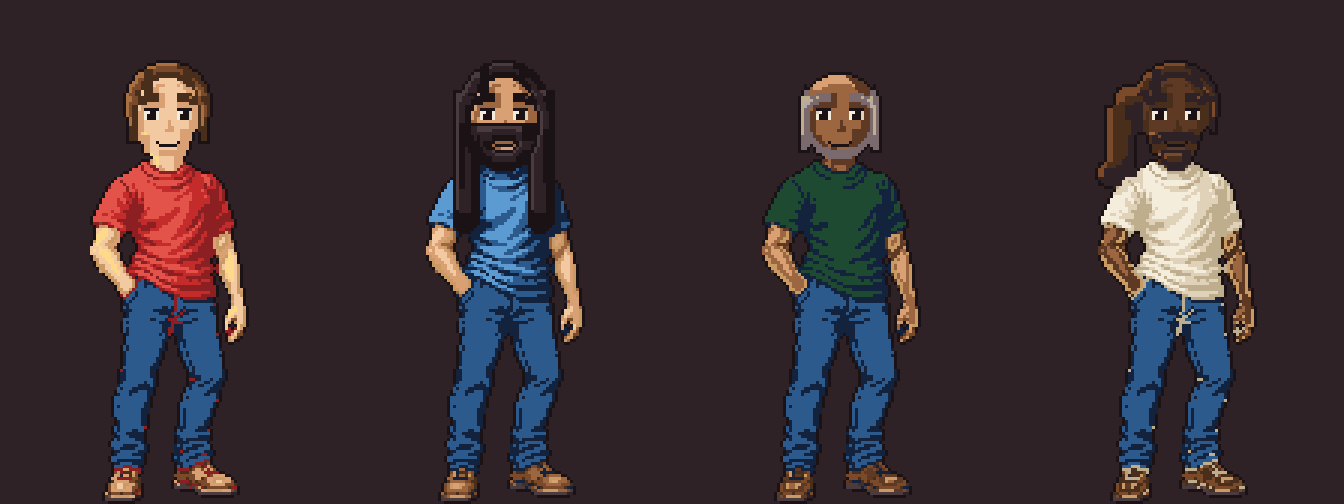
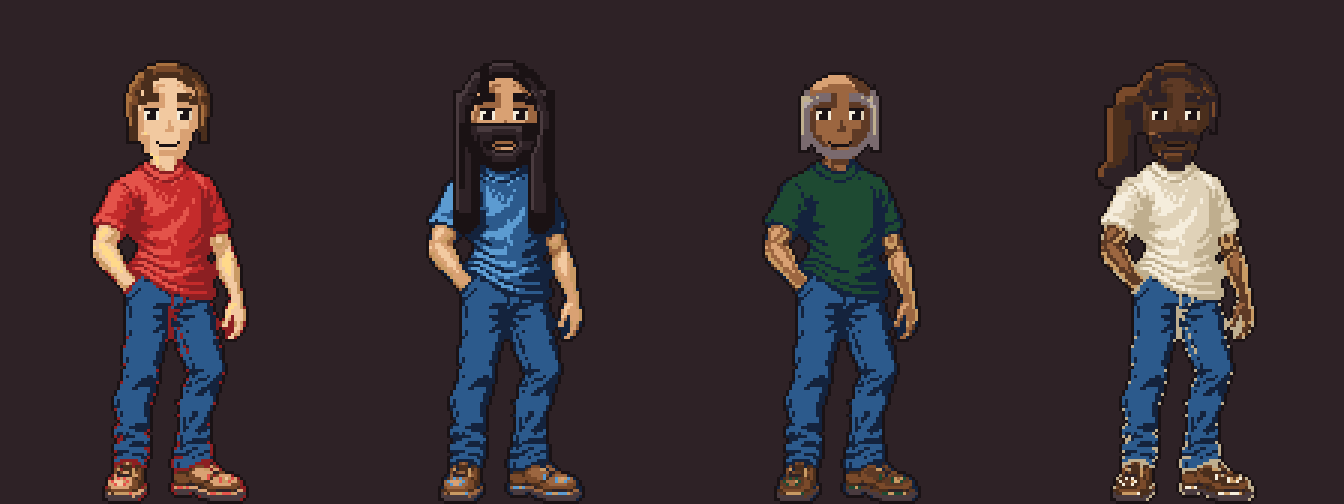
Register the T-shirt prototype, and leave the guard it conflicts with red
Round 3 cleared the outline (48 unoutlined pixels to zero) and the contact row,
and missed the shoulder band by six rows. --fit normalised that at 0.952x and six
rows, reported in full, and it passed. avatar_body_starter_04 is the first
painted build in the product; the other five tops still draw themselves and a
manager wearing one cannot tell.

Two instructions the generator could not follow, twice: it was asked for 672x1008
with hard alpha and delivered 1024x1536 with zero fully-opaque pixels, both
rounds. Neither mattered. The outline defect they were meant to fix was fixed by
thickening the stroke instead, at the same width and the same feathered alpha,
because snapping at source resolution and voting by majority absorbs both. Do not
ask for either again.

shading.test.ts is RED and deliberately so. The painted build has 55 pixels of
enclosed empty space - under the bent arm and beside the hanging hand - and both
are outlined negative space that is correct and is what makes the pose read. The
rule was written for a drawn figure whose gaps were always bugs and it caught two
of them, but a posed figure with an arm away from its body cannot have zero
enclosed negative space, so that rule and ruling R2 cannot both hold for a
painted build. Editing a guard that has caught two shipped defects, in the commit
that makes it inconvenient, is the move this repository has most reason to
distrust. The recommended narrowing is written down, not applied. The branch does
[…]

diff --git a/lib/character/art/masks/avatar_body_starter_04.ts b/lib/character/art/masks/avatar_body_starter_04.ts
@@ -1,0 +1,16 @@
+import { type EncodedMask } from '../../mask';
+
+/**
+ * GENERATED by `npm run art:mask`. **Do not edit.**
+ *
+ * The painted build for `avatar_body_starter_04`, as role indices into `MASK_KEYS`. Regenerate
+ * from the delivered PNG rather than touching a run: every entry here was checked
+ * by the validator, and a hand-edited one has not been.
+ */
+export const AVATAR_BODY_STARTER_04: EncodedMask = {
+  slug: 'avatar_body_starter_04',
+  width: 112,
+  height: 168,
+  rle:
+    '0.5984,1.2,0.9,1.2,0.97,1.2,3.1,1.1,0.9,1.4,0.94,1.2,5.1,3.2,1.2,0.6,1.2,4.1,1.3,0.92,1.2,4.1,5.1,4.1,3.2,1.2,0.5,1.1,3.2,1.1,5.1,1.3,0.88,1.2,3.4,5.2,3.3,1.5,3.2,4.1,6.1,4.2,3.1,1.3,0.84,1.2,3.7,5.2,3.7,4.2,6.1,4.4,3.2,1.3,0.80,1.2,3.8,4.1,3.2,5.2,3.3,4.2,6.2,3.1,4.1,5.1,4.2,3.3,4.2,1.1,0.78,1.2,4.1,3.9,4.3,3.1,4.1,5.4,3.1,4.7,3.2,4.2,1.2,0.76,1.2,3.2,4.1,5.1,3.8,4.7,3.1,4.9,3.1,4.3,1.1,0.75,1.2,3.5,5.1,3.2,4.1,3.5,4.15,5.1,4.1,3.1,4.3,1.1,0.74,1.2,3.4,4.1,3.1,4.1,3.1,4.2,3.4,4.1,3.1,4.6,3.1,4.7,5.1,4.1,5.1,4.2,1.1,0.74,1.1,3.6,4.1,6.1,4.1,3.1,4.1,3.1,4.1,3.3,4.2,3.1,4.12,6.1,4.1,5.1,4.2,1.2,0.72,1.2,3.4,4.3,5.1,4.2,5.1,4.2,3.3,4.1,3.1,4.1,3.1,4.2,3.1,4.8,6.1,4.1,5.2,4.1,5.1,1.1,0.72,1.1,3.6,4.3,6.1,5.2,4.2,3.5,4.1,3.1,4.1,3.2,4.5,3.1,4.2,5.4,4.1,5.1,1.2,0.70,1.2,3.4,4.5,5.5,3.6,4.2,3.1,4.6,3.1,4.2,5.1,6.2,4.2,5.1,4.1,1.1,0.70,1.1,4.1,3.4,4.3,5.1,4.1,1.1,6.1,5.1,6.1,4.1,3.9,4.9,5.1,6.1,1.1,4.1,5.1,4.2,1.1,0.69,1.2,3.5,4.3,5.1,4.2,1.1,5.1,6.1,3.2,4.1,3.5,4.6,3.1,4.4,5.1,1.2,5.1,6.1,4.2,1.2,0.68,1.1,4.1,3.4,4.5,6.1,1.2,6.2,4.3,3.4,4.6,3.2,4.4,5.1,1.2,5.1,6.1,4.2,5.1,1.1,0.67,1.1,4.1,3.2,4.7,5.1,6.1,1.3,5.1,4.2,3.3,4.8,3.2,4.4,5.1,1.1,6.2,4.4,1.2,0.65,1.2,3.5,4.5,5.1,6.1,1.3,4.13,3.2,4.5,5.1,1.2,6.1,4.4,5.1,1.1,0.65,1.1,3.2,1.1,3.5,4.1,5.2,6.2,1.2,5.1,4.10,3.1,4.1,3.3,4.5,5.1,1.2,5.1,4.3,5.2,1.2,0.64,1.1,6.1,1.5,3.2,4.2,5.1,6.2,1.1,6.1,5.3,4.8,3.4,4.6,5.1,1.2,5.4,4.2,5.1,1.1,0.65,1.2,8.3,13.1,1.2,4.1,3.1,4.1,6.1,1.2,6.2,5.4,4.5,3.4,4.7,5.1,1.2,6.2,4.4,1.2,0.65,1.1,13.1,8.1,7.2,8.1,13.1,9.1,1.1,4.1,5.2,1.1,6.2,5.3,4.5,3.5,4.7,5.2,1.2,5.1,4.4,1.2,0.66,1.1,8.1,7.3,8.2,13.1,9.1,1.1,5.1,1.2,6.2,5.1,4.3,3.9,4.7,5.2,1.2,5.1,4.1,1.5,0.65,1.2,8.1,7.2,8.2,13.2,9.1,1.4,6.3,5.1,4.1,3.9,4.7,5.2,4.1,1.4,9.1,13.2,9.1,1.1,0.65,1.2,8.1,7.1,8.2,13.2,9.2,1.2,0.1,1.2,5.4,4.1,3.1,4.2,3.3,4.1,3.1,4.6,5.2,4.1,5.1,1.2,9.1,13.1,8.2,13.1,9.1,1.2,0.64,1.1,8.4,13.2,9.2,1.2,0.3,1.1,6.1,4.2,5.3,4.6,3.2,4.4,5.2,4.2,5.1,1.2,9.1,13.1,8.2,13.1,9.2,1.1,0.64,1.1,8.2,7.2,8.2,9.2,1.1,0.5,1.1,5.1,4.3,5.2,4.6,3.1,4.7,5.2,1.2,9.1,13.4,9.2,1.1,0.64,1.1,7.1,8.1,7.3,8.2,13.1,1.1,0.5,1.2,5.1,4.1,3.2,4.5,3.1,4.8,5.2,6.1,1.3,9.1,13.2,9.1,13.1,8.1,1.2,0.63,1.1,8.3,7.3,8.2,13.1,1.1,0.4,1.1,4.1,6.2,4.1,3.7,4.6,5.3,6.2,5.1,1.2,9.4,8.2,1.2,0.63,1.1,13.2,8.1,7.4,8.1,13.1,1.1,0.3,1.2,3.3,5.2,3.6,4.5,5.3,6.2,5.2,1.2,14.1,9.2,13.1,7.2,8.1,1.1,0.63,1.1,9.1,13.1,8.2,7.3,8.2,13.1,1.1,0.2,1.1,4.2,3.4,5.2,4.9,5.3,4.2,5.2,1.1,0.1,1.1,9.1,13.1,8.1,7.2,8.1,1.2,0.63,1.1,13.2,8.2,7.3,8.1,13.1,1.1,0.1,1.2,5.4,4.1,3.3,4.13,5.2,1.2,0.1,1.1,13.1,8.1,7.3,13.2,1.1,0.63,1.2,13.2,8.2,7.3,8.1,1.3,4.2,3.3,5.2,4.1,3.5,4.1,3.2,4.4,5.2,6.3,1.3,13.1,8.1,7.3,8.1,13.1,1.1,0.64,1.1,9.1,13.2,8.1,7.3,8.1,13.1,1.2,5.4,3.3,5.2,4.2,3.5,4.2,5.3,6.1,4.1,5.3,1.2,13.1,8.1,7.3,8.1,13.1,1.2,0.64,1.1,9.1,13.2,8.2,7.1,8.2,1.2,4.1,3.3,5.1,4.1,3.3,5.3,4.6,3.2,4.4,5.2,1.2,13.1,8.2,7.2,8.1,13.2,1.1,0.65,1.2,13.1,8.3,7.1,8.1,13.1,1.4,3.1,2.1,3.1,5.1,4.1,3.3,5.4,4.2,3.2,4.3,5.3,6.1,1.3,13.1,8.1,7.2,8.1,13.2,1.1,0.66,1.2,13.2,8.4,13.1,1.4,4.1,3.2,5.1,4.2,3.7,4.2,5.5,6.1,1.4,13.1,8.2,7.1,8.1,13.2,1.1,0.67,1.2,13.1,8.5,13.1,1.2,11.1,1.2,3.3,4.3,3.2,4.3,5.5,6.4,1.3,9.1,13.1,8.3,13.2,1.1,0.68,1.2,13.1,8.5,1.1,10.1,11.1,12.2,1.1,4.1,3.2,5.2,4.6,5.2,6.3,5.4,1.1,0.1,1.1,13.1,8.3,13.2,1.1,0.69,1.1,9.1,13.1,8.3,1.1,10.2,11.4,1.2,4.1,3.2,5.3,4.9,5.2,1.2,0.1,1.2,13.1,8.3,13.1,1.1,0.70,1.1,9.1,13.2,1.1,10.2,11.1,10.3,11.2,1.3,3.4,5.10,6.2,1.1,0.2,1.1,13.1,8.3,13.1,1.1,0.71,1.1,9.1,1.2,10.1,11.1,12.1,10.3,11.3,12.1,1.3,4.1,3.1,4.1,3.1,4.2,5.1,6.6,5.1,1.2,0.2,1.1,13.1,8.2,13.1,1.2,0.70,1.3,10.1,11.1,12.1,10.3,11.6,12.1,1.4,4.9,5.2,1.2,0.2,1.1,13.1,8.2,13.2,1.1,0.71,1.1,11.2,12.1,10.8,11.3,12.1,1.1,12.2,1.4,5.6,6.1,1.2,0.2,1.2,8.3,13.1,1.1,0.71,1.1,12.2,11.6,10.4,11.3,1.1,10.1,11.2,1.1,12.1,1.9,0.4,1.1,8.3,13.1,1.1,0.71,1.1,12.1,11.6,10.2,11.6,1.1,10.1,11.2,1.1,11.3,12.5,1.1,0.4,1.2,8.3,13.1,1.1,0.71,1.1,12.1,11.5,10.2,11.2,12.5,1.1,11.1,12.1,1.1,12.5,11.3,12.1,1.2,0.3,1.1,8.1,7.2,8.1,13.1,1.1,0.71,1.1,11.1,12.1,11.1,10.4,11.2,12.5,1.1,11.1,12.6,11.2,10.1,11.2,12.2,1.1,0.2,1.2,7.2,8.2,13.1,1.2,0.70,1.1,11.1,12.1,11.3,10.4,11.3,12.2,1.4,12.1,11.1,10.4,11.2,12.3,1.1,0.2,1.1,8.1,7.1,8.4,13.1,1.1,0.70,1.1,11.1,12.1,10.4,11.2,10.2,11.2,12.2,1.2,12.2,11.9,12.2,1.2,0.1,1.1,8.1,7.1,8.4,13.1,1.1,0.70,1.1,11.1,12.1,11.1,10.2,11.4,12.5,1.3,12.6,11.1,10.2,11.2,12.2,1.1,0.1,1.1,7.1,8.1,1.1,8.3,13.1,1.1,0.70,1.1,11.4,10.3,11.3,12.4,1.1,12.1,1.1,11.2,12.2,11.2,10.3,11.2,12.2,1.3,8.1,9.1,1.1,8.3,13.1,1.1,0.70,1.1,11.1,10.1,11.3,10.3,11.4,12.2,1.1,12.3,11.1,10.2,11.3,10.2,11.2,12.2,1.2,13.1,8.1,1.2,13.1,8.1,13.1,1.2,0.70,1.1,11.2,10.7,11.2,12.3,1.1,12.4,11.1,10.3,11.1,10.2,11.2,12.2,1.2,8.2,1.2,13.1,8.1,9.1,1.2,0.70,1.1,11.3,10.6,11.1,12.4,1.2,11.1,1.1,11.3,10.6,11.1,12.2,1.6,8.2,9.1,1.1,0.71,1.1,11.1,12.1,11.1,10.5,11.1,12.2,11.2,12.1,1.2,12.1,11.3,12.1,11.1,10.5,11.2,12.1,1.1,0.1,1.4,8.1,9.1,1.2,0.71,1.1,11.1,12.1,11.1,10.4,11.5,12.2,1.2,12.1,11.1,1.1,11.4,10.4,11.2,12.1,1.1,0.1,1.3,8.1,13.1,9.1,1.1,0.72,1.2,11.1,10.5,11.5,12.2,1.2,12.1,11.1,1.1,11.1,10.1,11.3,10.3,11.3,1.4,8.2,1.2,0.73,1.1,10.1,11.1,10.4,11.2,10.1,11.3,12.1,1.4,11.2,12.1,10.3,11.2,10.1,11.3,12.2,1.1,0.1,1.4,0.74,1.1,10.1,11.1,10.7,11.2,12.2,1.1,0.2,1.1,12.1,11.1,12.1,11.1,10.5,11.3,12.2,1.1,0.78,1.2,11.1,10.7,11.3,12.2,1.1,0.2,1.1,12.1,11.1,1.1,12.1,11.1,10.5,11.3,12.1,1.2,0.77,1.1,10.1,11.1,10.6,11.4,12.2,1.1,0.2,1.2,11.2,1.1,11.2,10.5,11.2,12.2,1.1,0.77,1.1,10.1,11.2,10.4,11.4,12.2,1.1,0.4,1.1,11.2,1.1,11.3,10.4,11.3,12.1,1.1,0.77,1.1,11.3,10.4,11.4,12.2,1.1,0.4,1.2,11.1,10.1,11.5,10.3,11.2,12.1,1.1,0.77,1.1,11.1,12.1,11.2,10.4,11.3,12.2,1.1,0.5,1.1,11.2,12.1,11.5,10.2,11.2,12.1,1.1,0.77,1.1,11.1,12.1,11.3,10.3,11.2,12.3,1.1,0.5,1.1,12.1,11.1,10.4,11.3,10.2,11.2,1.1,0.77,1.2,11.5,10.3,11.1,12.2,1.1,0.7,1.1,11.1,10.1,12.1,10.4,11.1,10.2,11.2,12.1,1.1,0.77,1.1,11.6,10.2,11.2,12.1,1.1,0.7,1.1,12.1,11.1,12.1,11.3,10.4,11.2,12.1,1.1,0.76,1.1,10.1,11.1,10.2,11.3,10.2,11.2,1.2,0.7,1.2,12.5,10.2,11.4,12.1,1.1,0.76,1.1,11.5,10.3,11.3,12.1,1.1,0.8,1.1,12.3,10.2,11.5,12.1,1.2,0.76,1.1,11.1,12.1,11.1,10.4,11.1,12.2,11.1,12.1,1.1,0.8,1.1,11.1,12.1,10.2,11.2,12.1,11.2,12.2,1.1,0.77,1.1,11.2,10.2,11.2,12.6,1.1,0.7,1.2,11.3,12.3,11.2,12.3,1.1,0.76,1.2,11.1,10.2,11.2,12.6,1.2,0.7,1.1,11.1,12.1,11.1,12.1,11.4,12.3,1.2,0.76,1.1,11.2,10.1,11.2,12.7,1.1,0.7,1.2,12.2,11.1,10.2,11.2,12.4,1.1,0.77,1.1,11.2,10.1,11.1,12.2,11.4,12.2,1.1,0.7,1.1,11.3,10.2,11.1,12.6,1.1,0.76,1.1,10.1,11.1,10.1,11.8,12.2,1.1,0.7,1.1,11.1,12.1,10.2,11.1,12.3,11.1,12.3,1.1,0.76,1.1,10.1,11.1,10.1,11.7,12.2,1.2,0.7,1.1,11.1,10.2,11.1,12.3,11.2,12.2,1.1,0.76,1.1,10.1,11.1,10.2,11.1,10.2,11.4,12.2,1.1,0.8,1.1,11.1,10.1,11.8,12.1,1.1,0.76,1.1,10.1,12.1,10.5,11.4,12.2,1.1,0.6,1.2,11.2,10.1,11.8,12.1,1.1,0.76,1.1,11.1,12.1,11.1,10.4,11.3,12.2,1.2,0.6,1.2,11.5,10.1,11.5,1.2,0.76,1.1,12.2,11.2,10.3,11.3,12.2,1.1,0.8,1.1,11.2,10.1,11.1,10.1,11.5,12.1,1.1,0.77,1.2,11.4,10.2,11.3,12.2,1.1,0.8,1.1,11.10,12.1,1.1,0.78,1.1,11.1,12.1,11.3,10.2,11.2,12.2,1.1,0.8,1.1,11.4,12.2,11.3,12.1,1.1,0.79,1.1,11.1,12.1,11.4,10.2,11.1,12.2,1.1,0.7,1.2,11.4,12.2,11.3,12.1,1.1,0.79,1.2,11.6,10.1,11.2,12.1,1.1,0.8,1.1,11.1,12.1,11.1,12.2,11.3,12.2,1.1,0.80,1.1,11.3,10.3,11.3,12.1,1.1,0.8,1.1,11.1,12.1,11.1,12.1,11.4,12.2,1.1,0.79,1.2,12.1,10.2,11.2,12.5,1.1,0.8,1.1,11.1,12.1,11.3,10.1,11.1,12.2,1.2,0.78,1.2,10.3,11.1,12.7,1.1,0.8,1.1,11.1,12.2,11.1,10.1,11.1,12.4,1.1,0.78,1.1,11.2,10.1,11.1,10.3,12.4,1.2,0.8,1.1,11.1,12.1,11.1,10.1,11.1,12.4,11.1,1.1,0.78,1.1,11.1,12.2,11.1,12.1,11.1,10.3,11.1,1.2,0.8,1.2,11.1,10.5,12.1,11.3,1.1,0.78,1.2,12.1,1.1,12.4,10.3,11.1,1.2,0.7,1.1,11.1,12.1,10.2,11.6,12.1,1.1,0.79,1.3,12.1,10.3,11.5,1.1,0.7,1.1,11.1,12.1,11.3,12.6,1.1,0.79,1.2,10.3,11.1,12.4,11.1,12.1,1.1,0.7,1.2,12.1,11.1,12.7,1.2,0.78,1.1,11.1,10.4,12.7,1.1,0.7,1.2,12.2,11.8,1.2,0.77,1.1,11.6,10.3,11.1,1.3,0.6,1.2,11.1,12.1,11.3,12.2,10.2,11.2,1.2,0.77,1.2,12.4,10.1,11.5,1.2,0.6,1.1,11.4,12.2,10.2,11.2,12.2,1.2,0.78,1.1,12.2,10.2,11.1,12.4,11.1,12.1,1.1,0.6,1.1,12.5,10.2,11.1,12.2,11.2,1.2,0.77,1.2,11.1,10.5,11.2,12.2,1.2,0.6,1.4,10.2,11.1,12.1,11.1,10.2,11.2,12.1,1.1,0.77,1.1,11.1,10.1,1.6,11.2,1.2,0.6,1.2,11.2,10.2,11.2,10.3,1.5,0.77,1.4,14.1,9.1,14.1,1.3,11.1,12.1,1.1,0.6,1.2,11.1,12.1,11.3,10.1,11.1,1.5,17.1,1.2,0.76,1.2,14.1,17.1,15.3,1.1,15.2,1.3,0.6,1.2,11.1,12.1,11.3,1.2,14.3,1.2,9.1,14.1,1.2,0.75,1.1,14.1,13.1,1.1,15.3,13.1,15.1,14.1,15.1,1.1,0.8,1.6,15.1,14.1,9.3,13.2,1.1,9.2,1.2,0.74,1.1,14.1,17.1,14.1,9.2,15.1,13.1,14.2,15.1,1.1,0.8,1.2,15.4,14.1,9.7,17.2,14.2,1.3,0.70,1.2,9.1,17.4,15.1,13.1,9.1,14.1,15.1,1.1,0.8,1.1,14.4,15.1,14.2,9.4,3.1,14.1,1.1,14.1,9.4,1.3,0.67,1.2,15.1,9.1,3.1,9.1,3.1,9.2,14.1,15.1,14.1,15.1,1.1,0.8,1.1,14.9,9.2,3.1,15.1,9.2,3.1,13.1,8.1,13.1,3.1,9.1,1.2,0.66,1.1,9.1,3.1,8.3,13.1,3.1,9.1,14.2,15.2,1.1,0.8,1.1,15.1,14.4,15.1,14.4,15.2,9.3,3.1,13.2,3.1,9.2,14.1,1.2,0.65,1.1,9.2,3.1,8.2,3.1,9.2,14.2,15.2,1.2,0.6,1.2,15.4,17.3,15.3,14.3,9.6,14.3,1.2,0.64,1.2,14.1,9.6,14.3,15.1,1.1,14.1,1.1,0.6,1.2,9.1,3.2,13.1,3.1,9.3,17.1,15.2,14.10,15.1,1.3,0.63,1.1,15.2,14.7,15.2,9.2,16.1,1.1,0.6,1.2,16.8,9.3,15.3,17.5,15.1,17.1,9.2,1.2,0.63,1.1,16.1,9.1,15.1,13.5,3.1,9.3,16.1,1.2,0.7,1.2,16.4,1.2,16.4,9.1,3.2,13.2,3.3,13.1,9.1,16.3,1.1,0.63,1.1,16.9,9.1,16.2,1.2,0.9,1.6,0.1,1.2,16.14,1.2,0.63,1.2,16.10,1.2,0.18,1.3,17.1,16.10,1.2,0.66,1.11,0.22,1.12,0.31',
+};

diff --git a/lib/character/art/masks/index.ts b/lib/character/art/masks/index.ts
@@ -1,5 +1,7 @@
 import { type EncodedMask } from '../../mask';
 
+import { AVATAR_BODY_STARTER_04 } from './avatar_body_starter_04';
+
 /**
  * Painted build masks, by the slug they take over.
  *
@@ -29,7 +31,20 @@ import { type EncodedMask } from '../../mask';
  * one side of that and not the other, and the preview would quietly stop being
  * the truth.
  */
-export const BUILD_MASKS: Readonly<Record<string, EncodedMask>> = Object.freeze({});
+export const BUILD_MASKS: Readonly<Record<string, EncodedMask>> = Object.freeze({
+  /**
+   * The T-shirt, round 3, 2026-08-11. **The prototype, and the only painted build.**
+   *
+   * Passed with `--fit` — rescaled `0.952×` and moved 6 rows down, a normalisation
+   * of placement only, reported in full at ingest. Unfitted it misses the shoulder
+   * band by six rows and fails nothing else.
+   *
+   * The five other tops are still drawn, and a manager wearing one cannot tell any
+   * of this happened. Deleting this line reverts the T-shirt to the drawn sprite
+   * with nothing else to undo.
+   */
+  [AVATAR_BODY_STARTER_04.slug]: AVATAR_BODY_STARTER_04,
+});
 
 export function buildMask(slug: string): EncodedMask | null {
   return BUILD_MASKS[slug] ?? null;

diff --git a/docs/evidence/manager-build-prototype/README.md b/docs/evidence/manager-build-prototype/README.md
@@ -1,22 +1,34 @@
-# Round 2 evidence — **the art in these pictures is NOT registered**
+# The T-shirt prototype — round 3, registered 2026-08-11
 
-Every image here was produced from `art/incoming/16EEB307-…png` by writing a
-**temporary** mask module, rendering, and reverting it. `BUILD_MASKS` is still
-empty on this branch and every manager in the product still renders the drawn
-sprite. Nothing here shipped.
+**`avatar_body_starter_04` is the first painted build in the product.** The other
+five tops still draw themselves and a manager wearing one cannot tell.
 
-The mask behind them was produced with **`--fit`**, which normalised placement
-only — rescaled `0.892×` and moved down 18 rows. Without it the delivery fails
-three registration checks; with it, one.
+It passed with **`--fit`**: rescaled `0.952×` and moved 6 rows down, a
+normalisation of placement only, reported in full at ingest. Unfitted it misses
+the shoulder band by six rows and fails nothing else.
 
 | File | What it shows |
 |---|---|
-| `diag-mask.png` | the delivered art snapped to the seventeen role keys, unfitted, with the required band drawn over it |
-| `prototype-preview.png` | four managers from **one** file — four skin tones, four shirt colours, all resolved at render time |
-| `room-390.png` · `room-375.png` · `room-360.png` | the figure in the real storeroom at each phone width |
-| `room-closeup.png` | the same scene at device-pixel scale, for judging the head-to-body join |
+| `drawn-vs-painted.png` | the same manager, drawn hoodie against painted T-shirt |
+| `prototype-preview.png` | four managers from **one** file — four skin tones, four shirt colours, resolved at render time |
+| `room-390.png` · `room-375.png` · `room-360.png` | the storeroom at each phone width |
+| `room-closeup.png` | device-pixel scale, for the head-to-body join |
+| `avatar_body_starter_04-mask.png` | what `art:mask` wrote as its own preview |
+| `diag-mask.png` | **round 2**, kept for the record — the delivery that missed by 18 rows |
 
-**The open defect these pictures make obvious** is the head: it is still the
-*drawn* plate, because painting it is not authorised. Against a painted body it
-is the weakest thing in the frame, and that is the decision the prototype exists
-to surface.
+## Two things these pictures make obvious
+
+**The head is now the weakest thing in the frame.** It is still the *drawn* plate,
+because painting it is not authorised. Against a painted body it is flat, and it
+is what a viewer's eye goes to.
+
+**`lib/character/shading.test.ts` is red**, and deliberately left that way. The
+composite has 55 pixels of enclosed empty space: the gap under the bent arm and
+the gap beside the hanging hand. **Both are correct** — they are outlined negative
+space, and they are what makes the pose read as a pose. The rule they trip was
+written for a *drawn* figure, where every enclosed gap was a bug and it caught two
+real ones. It is in direct conflict with commissioner ruling R2, which grants a
+build its own pose: an asymmetric figure with an arm away from the body cannot
+have zero enclosed negative space.
+
+That is a ruling to make, not a test to quietly edit. `docs/MANAGER_BUILD_PROTOTYPE.md §10`.

diff --git a/docs/MANAGER_BUILD_PROTOTYPE.md b/docs/MANAGER_BUILD_PROTOTYPE.md
@@ -353,3 +353,54 @@ would make correct framing the generator's default — a full standing figure is
 what these models are best at — but their neck and jaw would land on rows the
 head plate owns, and no mechanical check can tell a chin from a collar. Refused,
 and recorded here so it is not rediscovered as a fresh idea.
+
+---
+
+## 10. Round 3 — registered, and the one conflict it exposed
+
+**`avatar_body_starter_04` is painted.** Round 3 cleared the outline and the
+contact row and missed the shoulder band by six rows; `--fit` normalised that
+(`0.952×`, 6 rows) and it passed. The mask is registered and the other five tops
+still draw themselves.
+
+### 10.1 Two instructions the generator could not follow, and only one mattered
+
+Round 3 was asked for `672 × 1008` with hard alpha and delivered `1024 × 1536`
+with **zero fully-opaque pixels** — the same signature as round 2. Two rounds
+asking and two rounds ignoring is evidence about the tool rather than the artist:
+this generator emits at its own size and its transparency is always feathered.
+
+**Neither turned out to matter**, which is worth recording before somebody asks
+for them again. The outline defect they were supposed to fix was fixed by
+*thickening the stroke* instead: 48 unoutlined pixels became **zero**, at the same
+1024 width and the same feathered alpha. Snapping at source resolution and voting
+by majority absorbs both. **Stop asking for the canvas size and the hard alpha**;
+ask for a thick outline.
+
+### 10.2 The no-hole rule and R2 are in direct conflict
+
+`lib/character/shading.test.ts`'s *"has no hole in it, on any top"* fails on the
+painted build with **55 pixels** of enclosed empty space, in two places: under the
+bent arm, and beside the hanging hand. Both are **outlined negative space and both
+are correct** — they are what makes the pose read as a pose rather than a slab.
+
+The rule is not wrong; its premise moved. It was written for a *drawn* figure
+whose gaps were always bugs, and it caught two of them — the two-column
+armpit-to-hem hole and twelve pixels through a collarbone. **A posed figure with
+an arm away from its body cannot have zero enclosed negative space**, so the rule
+and commissioner ruling R2 cannot both hold for a painted build.
+
+**The test is left red on purpose.** Editing a guard that has caught two shipped
+defects, in the same commit that makes it inconvenient, is the move this
+repository has the most reason to distrust. The recommended narrowing — keep the
+rule for drawn layers, and for painted builds require only that every enclosed gap
+is fully outlined — is written down here rather than applied.
+
+**The branch does not merge until this is ruled on**, which is the correct place
+for it to stop.
+
+### 10.3 What the pictures say
+
+The body is Tony-grade and holds at 390. The **head** is now the weakest thing in
+the frame — still the drawn plate, because painting it is not authorised — and it
+is where a viewer's eye goes. `docs/evidence/manager-build-prototype/`.
